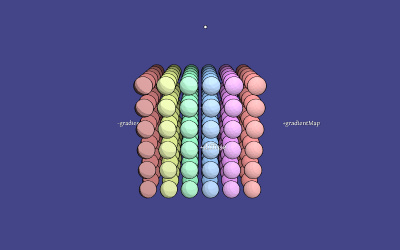
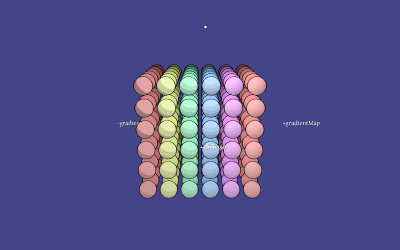
Examples: Improved webgl_materials_variations_toon.

diff --git a/examples/webgl_materials_variations_toon.html b/examples/webgl_materials_variations_toon.html
@@ -129,13 +129,9 @@
 
 				// Lights
 
-				scene.add( new THREE.AmbientLight( 0x111111 ) );
+				scene.add( new THREE.AmbientLight( 0x888888 ) );
 
-				var directionalLight = new THREE.DirectionalLight( 0xffffff, 1 );
-				directionalLight.position.set( 1, 1, 1 ).normalize();
-				scene.add( directionalLight );
-
-				var pointLight = new THREE.PointLight( 0xffffff, 1.75, 800 );
+				var pointLight = new THREE.PointLight( 0xffffff, 2, 800 );
 				particleLight.add( pointLight );
 
 				//
